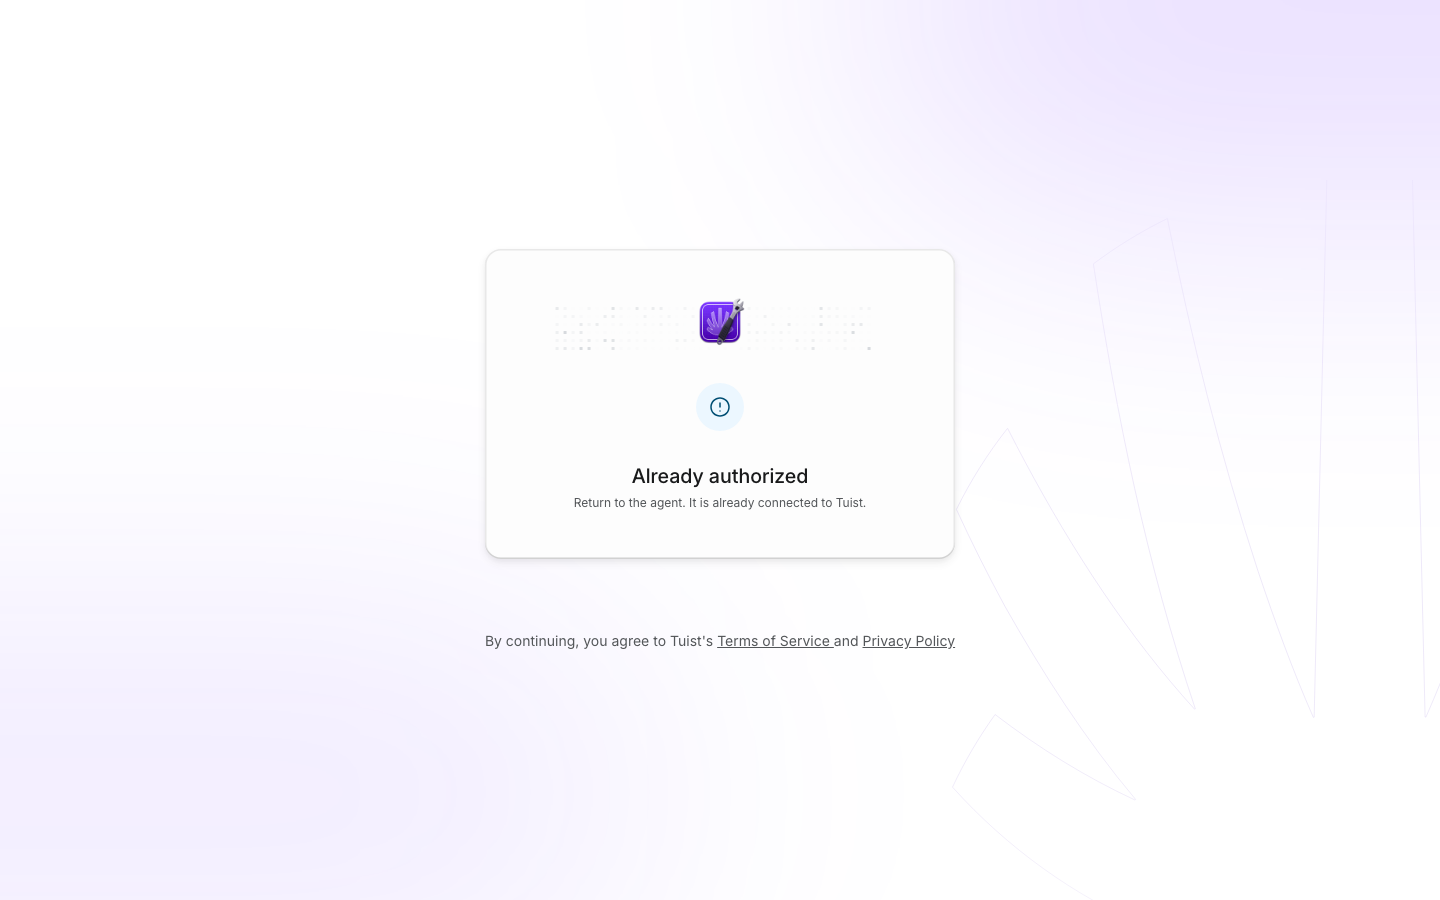
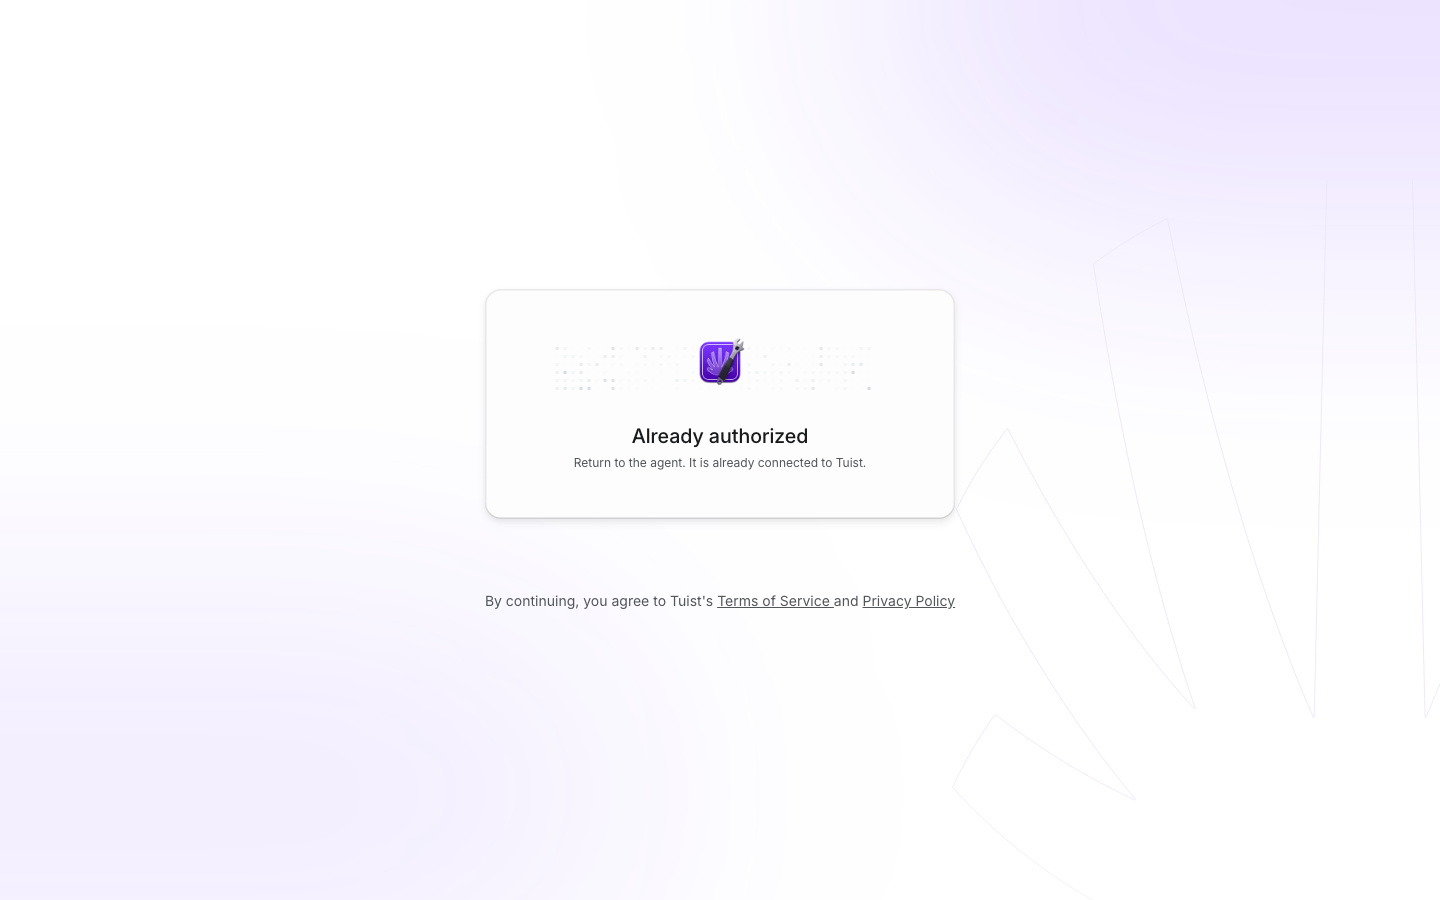
fix(server): align agent status pages with auth patterns

Changed region(s): [[0.3438, 0.6533, 0.6562, 0.7156], [0.4062, 0.4667, 0.5938, 0.56], [0.4688, 0.3111, 0.5312, 0.4356]]

diff --git a/server/assets/app/css/pages/auth.css b/server/assets/app/css/pages/auth.css
@@ -264,40 +264,6 @@
     }
   }
 
-  & [data-part="status-icon"] {
-    display: flex;
-    justify-content: center;
-    align-items: center;
-    border-radius: var(--noora-radius-99);
-    width: 48px;
-    height: 48px;
-
-    & svg {
-      width: 24px;
-      height: 24px;
-    }
-
-    &[data-appearance="success"] {
-      background: var(--noora-icon-success-background);
-      color: var(--noora-icon-success-label);
-    }
-
-    &[data-appearance="warning"] {
-      background: var(--noora-icon-warning-background);
-      color: var(--noora-icon-warning-label);
-    }
-
-    &[data-appearance="information"] {
-      background: var(--noora-icon-info-background);
-      color: var(--noora-icon-info-label);
-    }
-
-    &[data-appearance="error"] {
-      background: var(--noora-icon-destructive-background);
-      color: var(--noora-icon-destructive-label);
-    }
-  }
-
   & [data-part="security-note"] {
     display: flex;
     align-items: flex-start;
